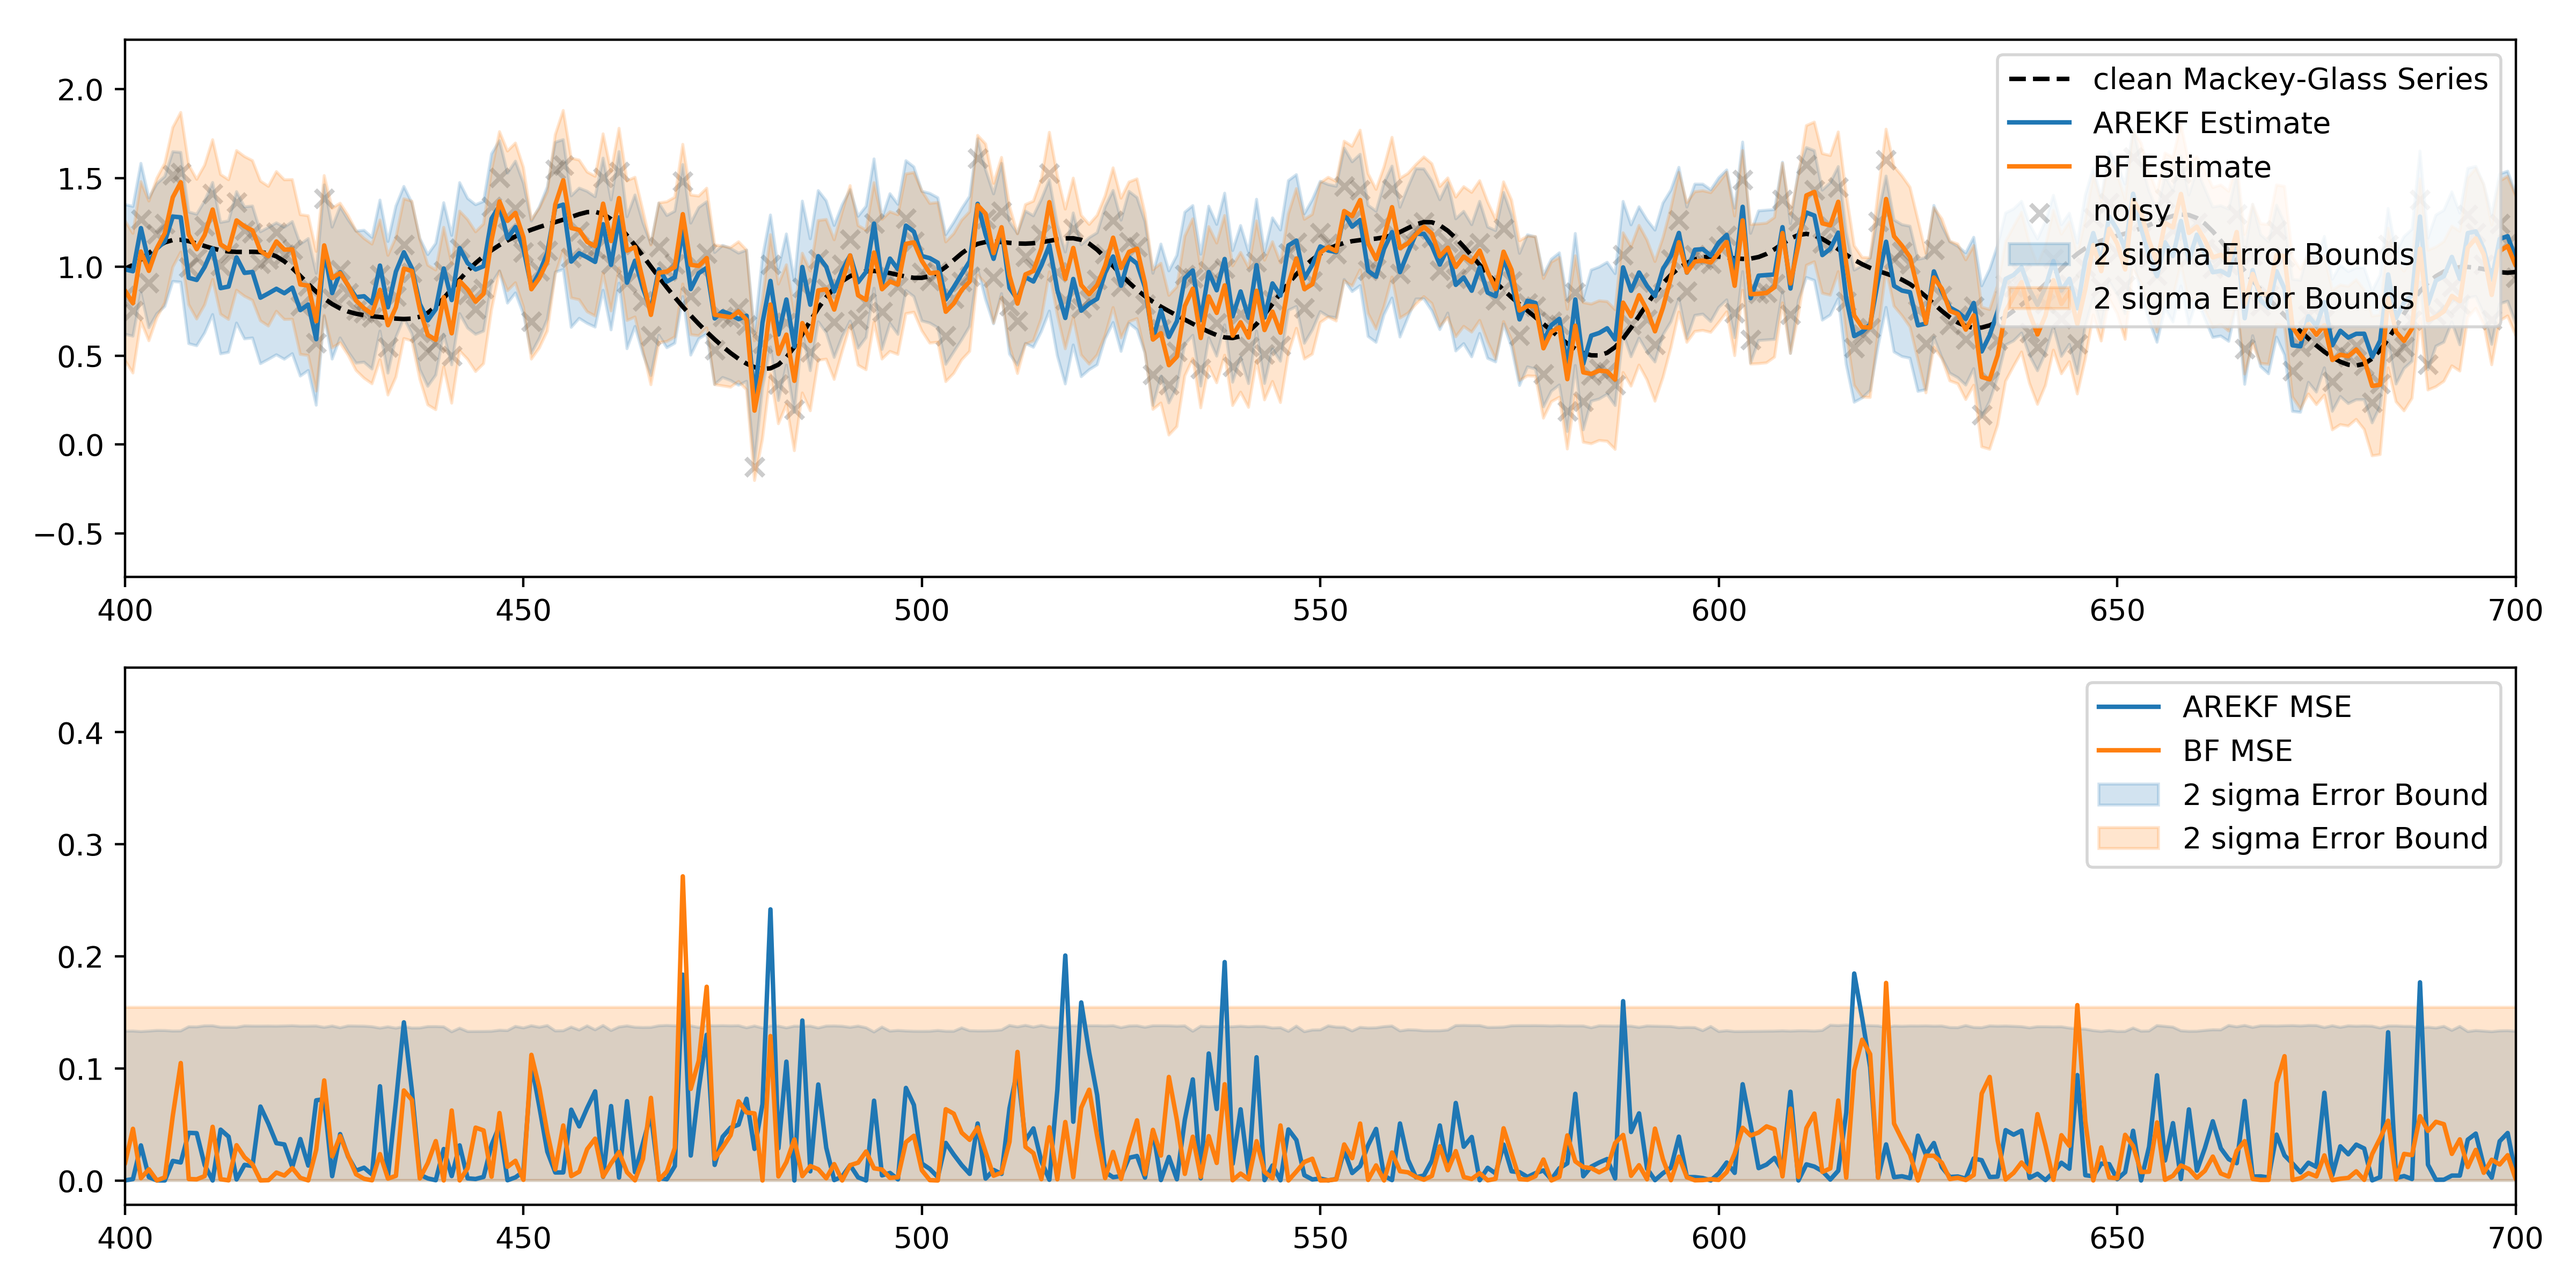
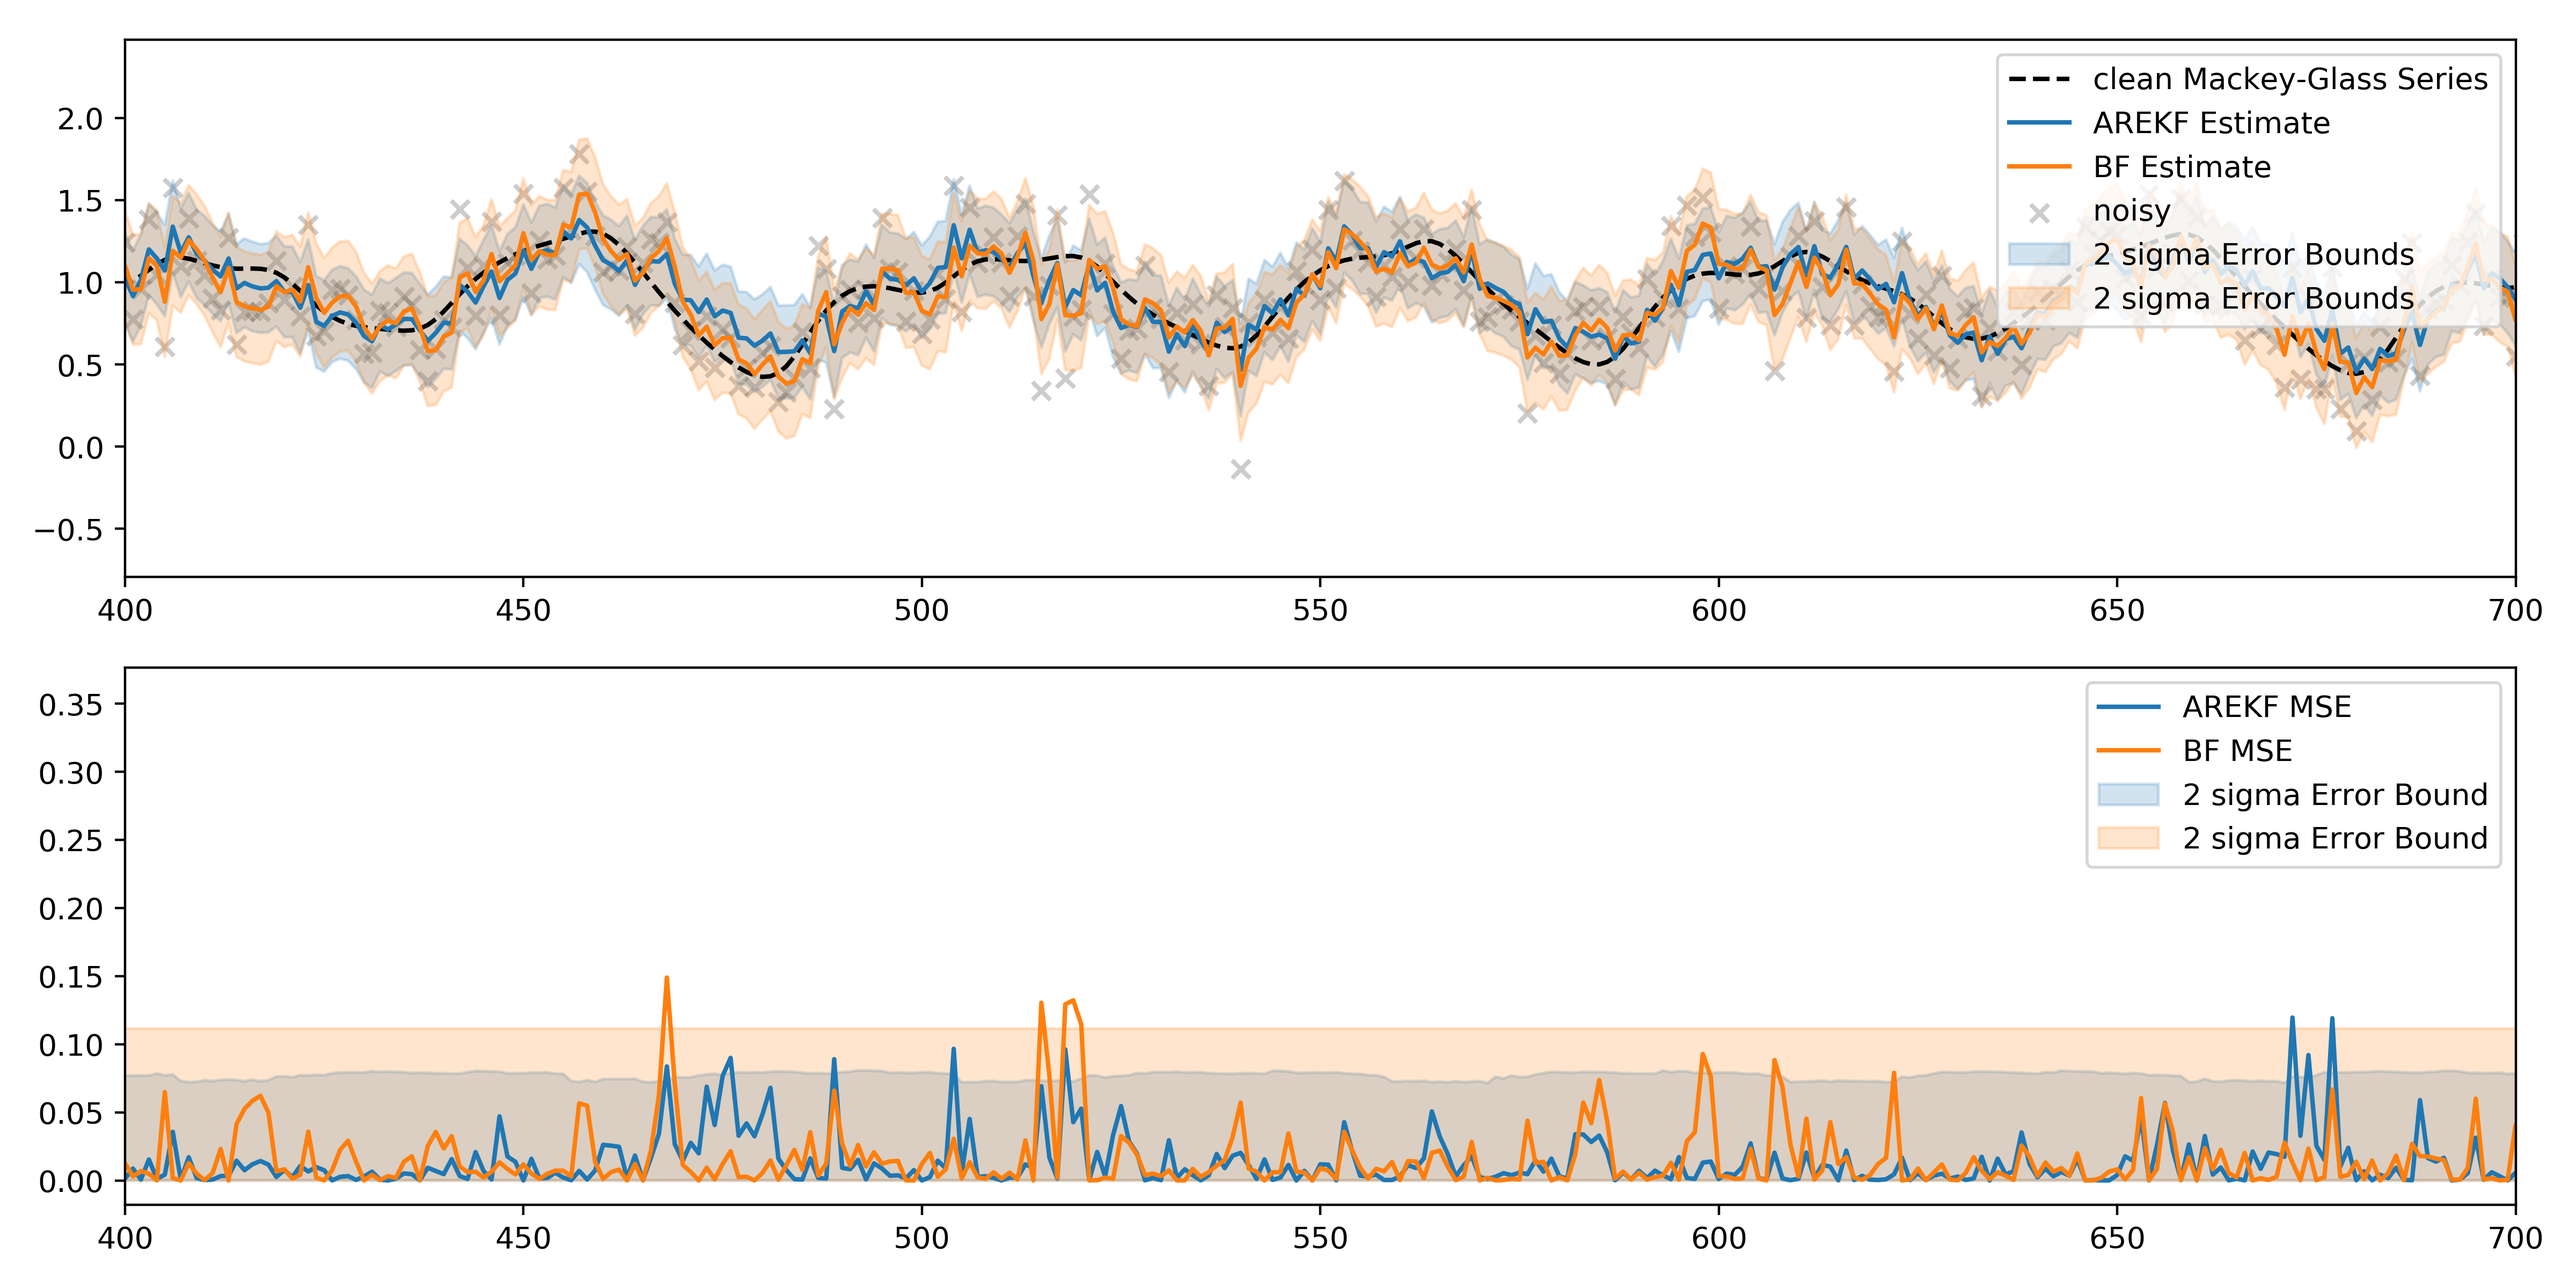
.

Changed region(s): [[0.0312, 0.0938, 1.0, 0.375], [0.0, 0.7188, 1.0, 0.9375]]

diff --git a/testAutoRegressiveEKF.py b/testAutoRegressiveEKF.py
@@ -5,7 +5,7 @@ from KalmanFilters import BrownianFilter, AutoRegressiveExtendedKalmanFilter
 t,b = np.loadtxt('mgdata.txt',delimiter=',')[::10].T
 dt = np.mean(np.diff(t))
 
-K = 40
+K = 50
 S = int(0.5 * len(b))
 E = -int(0.25 * len(b))
 
@@ -13,7 +13,7 @@ bf = BrownianFilter()
 ekf = AutoRegressiveExtendedKalmanFilter(K, eps=1e-3)
 ekf.fit(b[:S])
 
-q = 0.25
+q = 0.15
 r = 0.25
 
 Q = [[q * q]]
